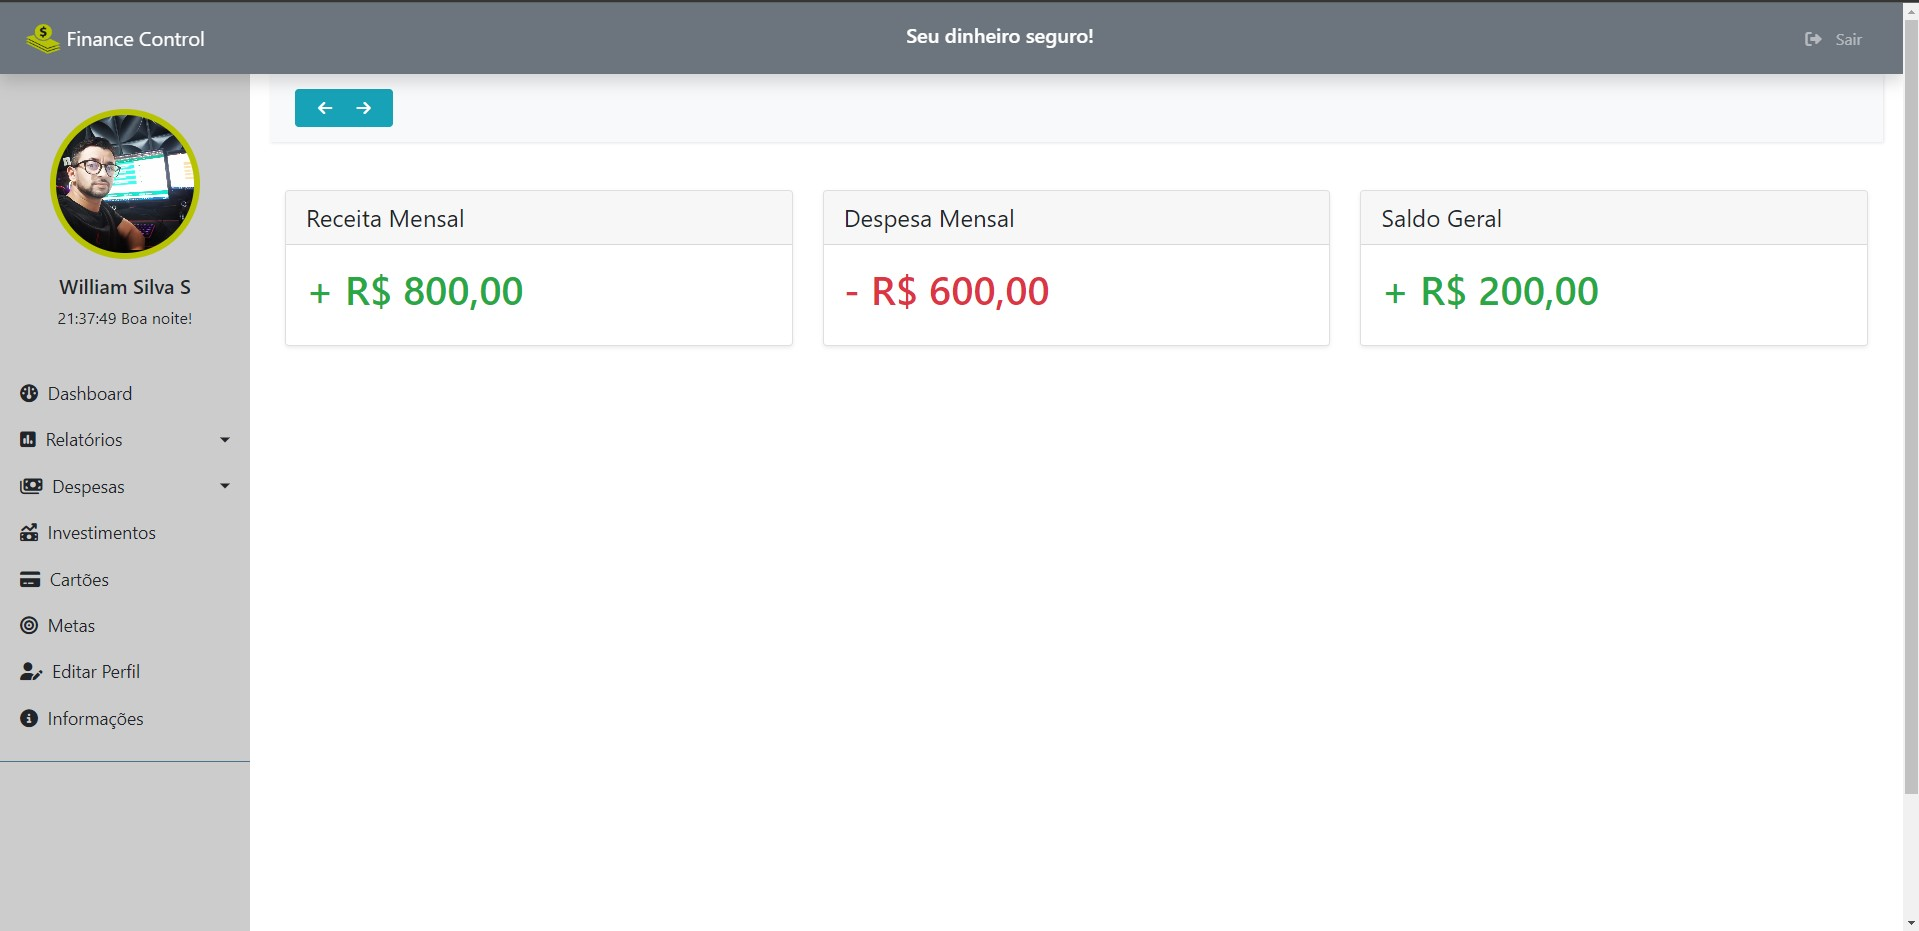
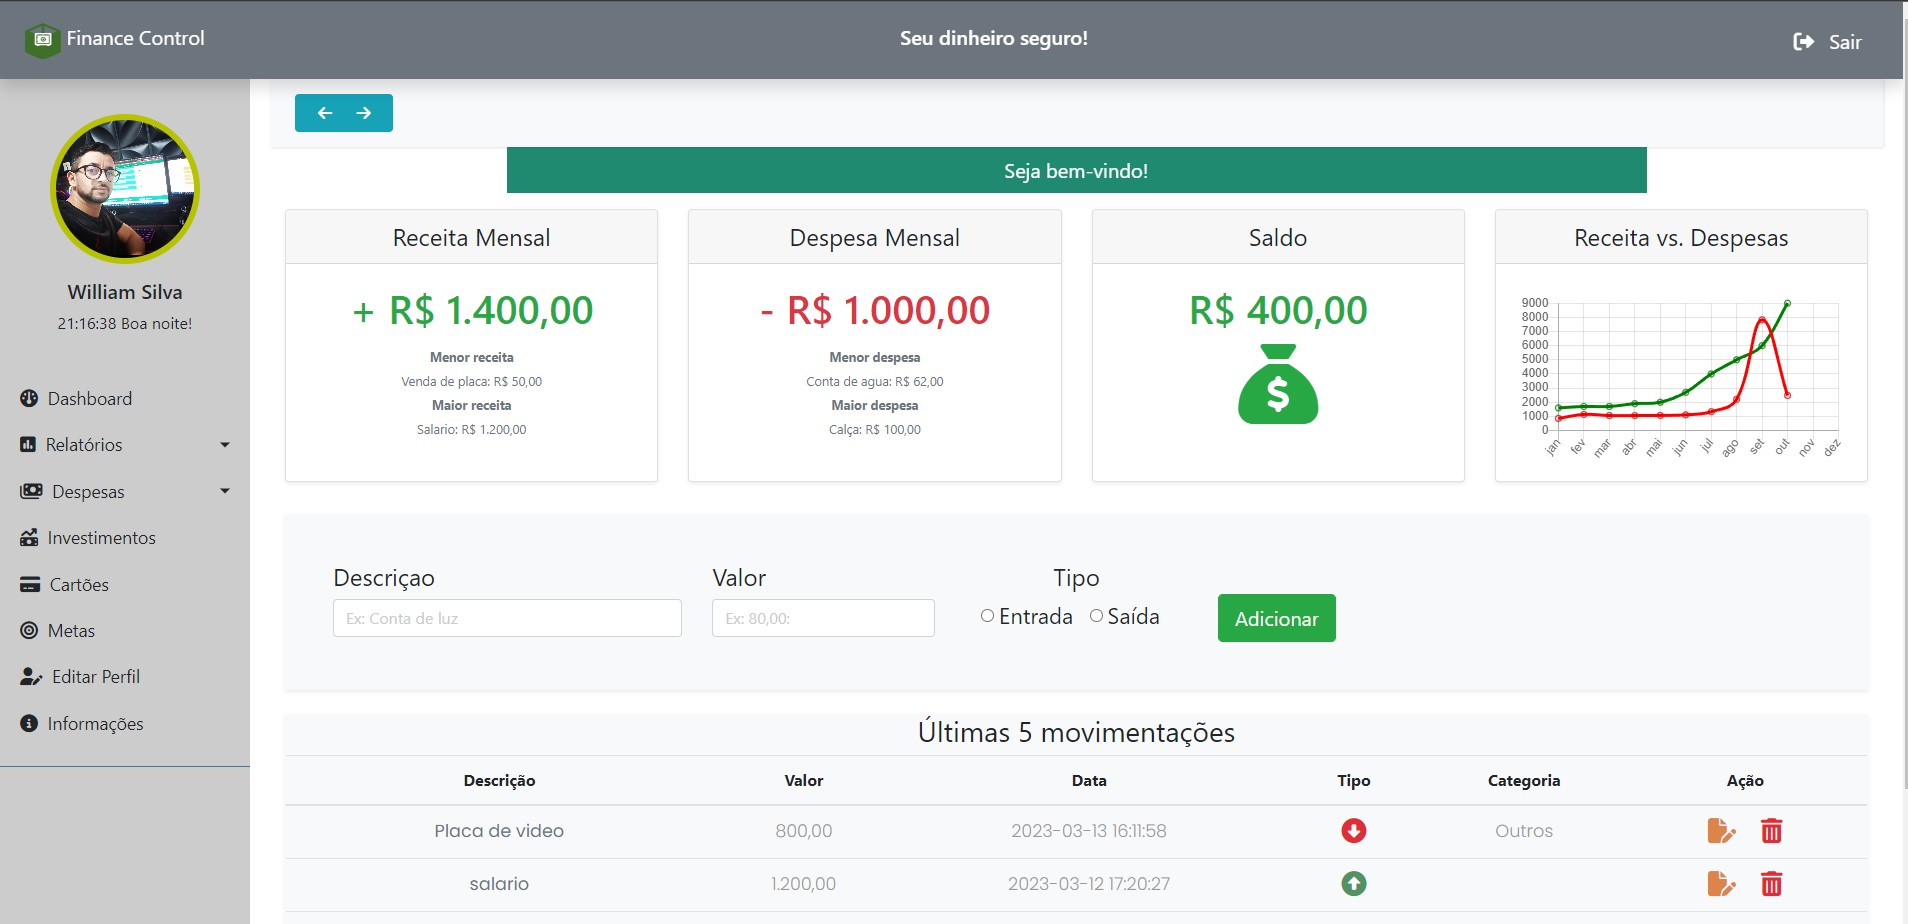
Improvements in code and feat: category input

diff --git a/js/functions.js b/js/functions.js
@@ -1,26 +1,30 @@
 
-// Function to 
+// Função que mostra div de qual tipo de despesa
 function show_expense() {
   var div_expense = document.getElementById("expense"); // Pega id da div que está oculta
+  var div_category = document.getElementById("category_div");
   var entry = document.getElementById("entry");
-  var out = document.getElementById("out");
   var fixa = document.getElementById("fixa");
   var variavel = document.getElementById("variavel");
-  var expense_type = document.querySelector('input[name = "expense_type"]'); 
+  var category = document.getElementById("category");
+
 
   if (entry.checked) {
     div_expense.style.display = "none";
-    // expense_type.required = false;
+    div_category.style.display = "none";
 
     fixa.disabled = true;
     fixa.checked = false;
     variavel.disabled = true;
     variavel.checked = false;
+    category.disabled = true;
     
   } else if (out.checked) {
     div_expense.style.display = "block";
+    div_category.style.display = "block";
     fixa.disabled = false;
     variavel.disabled = false;
+    category.disabled = false;
     // expense_type.required = true;
   }
 }

diff --git a/css/style.css b/css/style.css
@@ -127,7 +127,7 @@ main {
 
 .login-form-2 {
     padding: 9%;
-    background: #f05837;
+    background: #033e16;
     box-shadow: 0 5px 8px 0 rgba(0, 0, 0, 0.2), 0 9px 26px 0 rgba(0, 0, 0, 0.19);
 }
 
@@ -317,6 +317,10 @@ input::placeholder {
     display: none;
 }
 
+#category_div {
+    display: none;
+}
+
 hr.dashed {
     border-top: 2px dashed #999;
 }
@@ -350,6 +354,9 @@ table {
     color: #6C757D !important;
 }
 
+.actions .btn {
+    margin-top: 2rem;
+}
 
 @media (max-width: 575px) {
 

diff --git a/dao/FinancialMovimentDAO.php b/dao/FinancialMovimentDAO.php
@@ -2,6 +2,7 @@
     require_once("models/FinancialMoviment.php");
     require_once("models/User.php");
     require_once("models/Message.php");
+    require_once("models/Categorys.php");
 
 
     Class FinancialMovimentDAO implements FinancialMovimentDAOInterface {
@@ -25,11 +26,51 @@
             $financialMoviment->description = $data['description'];
             $financialMoviment->value = number_format($data['value'], 2, ',', '.');
             $financialMoviment->type = $data['type'];
+
+            $category = $data['category'];
+
+            switch($category):
+                case 1:
+                    $financialMoviment->category = "Educação";
+                    break;
+                case 2:
+                    $financialMoviment->category = "Alimentação";
+                    break;
+                case 3:
+                    $financialMoviment->category = "transporte";
+                    break;
+                case 4:
+                    $financialMoviment->category = "Lazer";
+                    break;
+                case 5:
+                    $financialMoviment->category = "Saúde";
+                    break;
+                case 6:
+                    $financialMoviment->category = "Moradia";
+                    break;
+                case 7:
+                    $financialMoviment->category = "Pessoal";
+                    break;
+                case 8:
+                    $financialMoviment->category = "Outros";
+                    break;
+            endswitch;
+
             $financialMoviment->users_id = $data["users_id"];
             $financialMoviment->create_at = $data['create_at'];
             $financialMoviment->update_at = $data["update_at"];
 
             return $financialMoviment;
+        }
+
+        public function buildCategorys($data) {
+
+            $categorys = new Categorys();
+
+            $categorys->id = $data['id'];
+            $categorys->category_name = $data['category_name'];
+
+            return $categorys;
         }
 
         public function findAll() {
@@ -55,6 +96,27 @@
                 }
             }
             return $financialMoviments;
+        }
+
+        public function getAllCategorys() {
+            
+            $categorys = [];
+
+            $stmt = $this->conn->query("SELECT * FROM finance_categorys");
+
+            $stmt->execute();
+
+            if ($stmt->rowCount() > 0) {
+                
+                $cateogrysArray = $stmt->fetchAll();
+
+                foreach ($cateogrysArray as $category){
+
+                    $categorys[] = $this->buildCategorys($category);
+                
+                }
+            }
+            return $categorys;
         }
 
         public function getAllCashInflow($id) {
@@ -117,9 +179,9 @@
         public function create(FinancialMoviment $financialMoviment) {
 
             $stmt = $this->conn->prepare("INSERT INTO tb_finances (
-                id, description, value, type, expense, create_at, users_id
+                id, description, value, type, expense, category, create_at, users_id
             ) VALUES(
-                :id, :description, :value, :type, :expense, now(), :users_id
+                :id, :description, :value, :type, :expense, :category, now(), :users_id
             )");
 
             $stmt->bindParam(':id', $financialMoviment->id);
@@ -127,7 +189,7 @@
             $stmt->bindParam(':value', $financialMoviment->value);
             $stmt->bindParam(':type', $financialMoviment->type);
             $stmt->bindParam(':expense', $financialMoviment->expense);
-            // $stmt->bindParam(':create_at', $financialMoviment->create_at);
+            $stmt->bindParam(':category', $financialMoviment->category);
             $stmt->bindParam(':users_id', $financialMoviment->users_id);
             
             $stmt->execute();

diff --git a/dashboard-main.php b/dashboard-main.php
@@ -5,6 +5,8 @@ require_once("dao/FinancialMovimentDAO.php");
 
 $financialMovimentDao = new FinancialMovimentDAO($conn, $BASE_URL);
 
+$categorys = $financialMovimentDao->getAllCategorys();
+
 // Traz as última movimentações do usuário
 $latestFinancialMoviments = $financialMovimentDao->getLatestFinancialMoviment($userData->id);
 
@@ -110,7 +112,7 @@ $total_balance > 0 ? $balance_color_text = "text-success" : $balance_color_text 
                         <input type="text" name="description" id="description" class="form-control"
                             placeholder="Ex: Conta de luz">
                     </div>
-                    <div class="col-md-3">
+                    <div class="col-md-2">
                         <h4 class="font-weight-normal">Valor</h4>
                         <input type="text" name="value" id="value" class="form-control number-separator"
                             placeholder="Ex: 80,00:">
@@ -141,7 +143,16 @@ $total_balance > 0 ? $balance_color_text = "text-success" : $balance_color_text 
                             <label class="form-check-label" for="inlineRadio2">Variada</label>
                         </div>
                     </div>
-                    <div class="col-md-2 py-4">
+                    <div class="col-md-2" id="category_div">
+                        <h4 class="font-weight-normal">Categoria</h4>
+                        <select class="form-control" name="category" id="">
+                            <option value="">Selecione</option>
+                            <?php foreach($categorys as $category): ?>
+                            <option value="<?= $category->id ?>"> <?= $category->category_name ?></option>
+                            <?php endforeach; ?>
+                        </select>
+                    </div>
+                    <div class="col-md-1">
                         <input type="submit" class="btn btn-lg btn-success" value="Adicionar"></input>
                     </div>
                 </div>
@@ -160,6 +171,7 @@ $total_balance > 0 ? $balance_color_text = "text-success" : $balance_color_text 
                         <th>Valor</th>
                         <th>Data</th>
                         <th>Tipo</th>
+                        <th>Categoria</th>
                         <th>Ação</th>
                     </thead>
                     <tbody>
@@ -181,6 +193,9 @@ $total_balance > 0 ? $balance_color_text = "text-success" : $balance_color_text 
                                 <?php else: ?>
                                 <i class="fa-solid fa-circle-down saida"></i>
                                 <?php endif; ?>
+                            </td>
+                            <td>
+                                <span> <?= $financialMoviment->category ?> </span>
                             </td>
                             <td><a href="moviment_process.php?id=<?=$financialMoviment->id?>" title="Editar"><i
                                         class="fa-solid fa-file-pen"></i></a>

diff --git a/moviment_process.php b/moviment_process.php
@@ -20,7 +20,8 @@ if ($_POST) {
     $value = filter_input(INPUT_POST, "value");
     $type_action = filter_input(INPUT_POST, "type_action");
     $expense_type = filter_input(INPUT_POST, "expense_type");
-    $value = str_replace(',','',$value); 
+    $value = str_replace(',','',$value);
+    $category = filter_input(INPUT_POST, "category");
 
     $financialMoviment = new FinancialMoviment();
 
@@ -28,9 +29,9 @@ if ($_POST) {
 
         if ($type_action == 2) {
                
-            if (empty($expense_type)) {
+            if (empty($expense_type) || empty($category)) {
                  // Informa que o campo Despesa precisa ser preenchido
-                 $message->setMessage("Para o tipo Saída, preencha também o campo despesa!", "error", "back");
+                 $message->setMessage("Para o tipo Saída, preencha também o campo despesa e categoria!", "error", "back");
                  exit;
             }
         }
@@ -39,6 +40,7 @@ if ($_POST) {
         $financialMoviment->value = $value;
         $financialMoviment->type = $type_action;
         $financialMoviment->expense = $expense_type;
+        $financialMoviment->category = $category;
         $financialMoviment->users_id = $userData->id;
 
         $financialMovimentDao->create($financialMoviment);

diff --git a/models/FinancialMoviment.php b/models/FinancialMoviment.php
@@ -7,6 +7,7 @@ Class FinancialMoviment {
     public $value;
     public $type;
     public $expense;
+    public $category;
     public $create_at;
     public $update_at;
     public $users_id;
@@ -20,6 +21,7 @@ interface FinancialMovimentDAOInterface {
     public function getAllCashInflow($id); // traz a soma de todas as entradas
     public function getAllCashOutflow($id); // traz a soma de todas as saídas 
     public function getTotalBalance($id); // traz balanço total entre entradas e saídas
+    public function getAllCategorys(); // Traz todas as categorias para despesas
     public function getCashInflowReport($monthy); // traz todas as entradas do mês
     public function getOutReport($monthy); // traz todas as saídas do mês
     public function findById($id); // traz uma movimentação especifica através do ID

diff --git a/dashboard.php b/dashboard.php
@@ -28,7 +28,7 @@ if ($userData->image == "") {
 <nav class="navbar sticky-top navbar-dark bg-secondary shadow">
     <div class="container-fluid">
         <a class="navbar-brand" href="#">
-            <img src="assets/home/logo.png" alt="" width="36" height="30" class="d-inline-block align-text-top">
+            <img src="<?= $BASE_URL ?>assets/finance_small_logo.png" alt="" width="36" height="36" class="d-inline-block align-text-top">
             <span class="">Finance Control</span>
         </a>
         <h5 class="text-white">Seu dinheiro seguro!</h5>

diff --git a/index.php b/index.php
@@ -25,6 +25,10 @@ if (!empty($flashMessage)) {
 
             <!-- Login Form -->
             <div class="col-md-6 login-form-1">
+                <div class="text-center mb-2">
+                <img src="<?= $BASE_URL ?>assets/finance_logo.png" width="50%" alt="">
+                </div>
+               
                 <h3>Login</h3>
                 <form action="<?= $BASE_URL ?>auth_process.php" method="POST">
                     <input type="hidden" name="type" value="login">

diff --git a/models/Categorys.php b/models/Categorys.php
@@ -1,0 +1,8 @@
+<?php 
+
+    Class Categorys {
+
+        public $id;
+        public $category_name;
+
+    }
